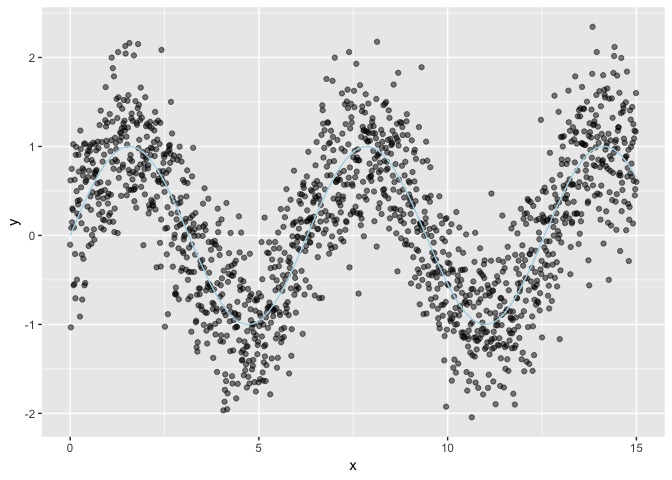
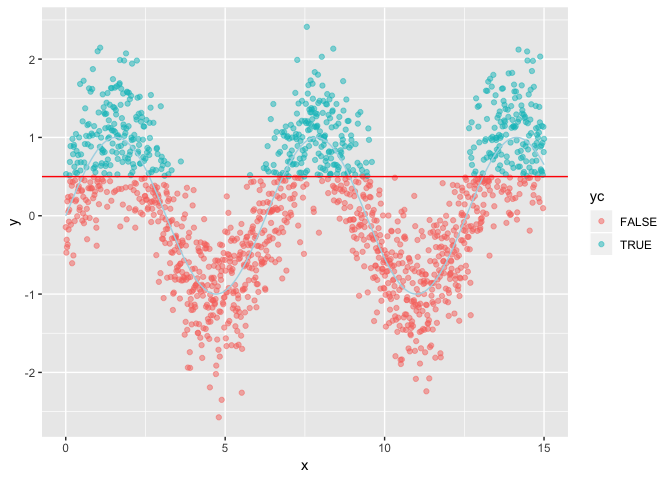
work on two model types

diff --git a/extras/SegFitter.md b/extras/SegFitter.md
@@ -8,52 +8,95 @@ library("ggplot2")
 ``` r
 customCoders = list('c.PiecewiseV.num' = vtreat::solve_piecewise,
                     'n.PiecewiseV.num' = vtreat::solve_piecewise)
+codeRestriction = c("PiecewiseV", "clean", "isBAD", "catB", "catP")
 ```
 
 ``` r
 d <- data.frame(x = seq(0, 15, by = 0.01))
+d$x_cat <- paste0("l_", round(d$x, digits = 1))
 d$y_ideal <- sin(d$x)
 d$x_noise <- d$x[sample.int(nrow(d), nrow(d), replace = FALSE)]
+d$x_cat_noise <- d$x_cat[sample.int(nrow(d), nrow(d), replace = FALSE)]
 d$y <- d$y_ideal + 0.5*rnorm(nrow(d))
+d$yc <- d$y>0.5
 d$is_train <- runif(nrow(d))>=0.2
 
+head(d)
+```
+
+    ##      x x_cat     y_ideal x_noise x_cat_noise          y    yc is_train
+    ## 1 0.00   l_0 0.000000000    1.97       l_0.2 -0.1458958 FALSE    FALSE
+    ## 2 0.01   l_0 0.009999833   11.71       l_5.1  0.5319236  TRUE     TRUE
+    ## 3 0.02   l_0 0.019998667    3.05       l_7.4 -0.4709165 FALSE     TRUE
+    ## 4 0.03   l_0 0.029995500    8.72       l_8.4 -0.3062934 FALSE     TRUE
+    ## 5 0.04   l_0 0.039989334    0.80       l_0.3 -0.4006318 FALSE     TRUE
+    ## 6 0.05   l_0 0.049979169    9.69      l_14.8  0.1850090 FALSE    FALSE
+
+``` r
+summary(d)
+```
+
+    ##        x            x_cat              y_ideal           x_noise     
+    ##  Min.   : 0.00   Length:1501        Min.   :-1.0000   Min.   : 0.00  
+    ##  1st Qu.: 3.75   Class :character   1st Qu.:-0.5917   1st Qu.: 3.75  
+    ##  Median : 7.50   Mode  :character   Median : 0.2412   Median : 7.50  
+    ##  Mean   : 7.50                      Mean   : 0.1174   Mean   : 7.50  
+    ##  3rd Qu.:11.25                      3rd Qu.: 0.8104   3rd Qu.:11.25  
+    ##  Max.   :15.00                      Max.   : 1.0000   Max.   :15.00  
+    ##  x_cat_noise              y               yc           is_train      
+    ##  Length:1501        Min.   :-2.5733   Mode :logical   Mode :logical  
+    ##  Class :character   1st Qu.:-0.5789   FALSE:966       FALSE:287      
+    ##  Mode  :character   Median : 0.1669   TRUE :535       TRUE :1214     
+    ##                     Mean   : 0.1044                                  
+    ##                     3rd Qu.: 0.7858                                  
+    ##                     Max.   : 2.4120
+
+``` r
 ggplot(data=d) +
-  geom_point(aes(x = x, y = y), alpha=0.5) + 
-  geom_line(aes(x = x, y = y_ideal), color = "lightblue")
+  geom_point(aes(x = x, y = y, color = yc), alpha=0.5) + 
+  geom_line(aes(x = x, y = y_ideal), color = "lightblue") +
+  geom_hline(yintercept = 0.5, color = "red")
 ```
 
 ![](SegFitter_files/figure-markdown_github/example-1.png)
 
 ``` r
-cfe <- vtreat::mkCrossFrameNExperiment(d[d$is_train, , drop=FALSE], 
-                                        c('x', 'x_noise'), 'y',
-                                        customCoders = customCoders,
-                                        verbose = FALSE)
-cfe$treatments
+cfn <- vtreat::mkCrossFrameNExperiment(
+  d[d$is_train, , drop=FALSE], 
+  c('x', 'x_noise', 'x_cat', 'x_cat_noise'), 'y',
+  customCoders = customCoders,
+  codeRestriction = codeRestriction,
+  verbose = FALSE)
+
+cfn$treatments
 ```
 
     ##              varName varMoves          rsq           sig needsSplit
-    ## 1       x_PiecewiseV     TRUE 0.6550661901 6.156370e-279       TRUE
-    ## 2            x_clean     TRUE 0.0007680121  3.376642e-01      FALSE
-    ## 3 x_noise_PiecewiseV     TRUE 0.0003799665  5.001037e-01       TRUE
-    ## 4      x_noise_clean     TRUE 0.0029398181  6.053472e-02      FALSE
-    ##   extraModelDegrees origName       code
-    ## 1              1199        x PiecewiseV
-    ## 2                 0        x      clean
-    ## 3              1199  x_noise PiecewiseV
-    ## 4                 0  x_noise      clean
+    ## 1       x_PiecewiseV     TRUE 6.737987e-01 4.149158e-297       TRUE
+    ## 2            x_clean     TRUE 1.382718e-03  1.954138e-01      FALSE
+    ## 3 x_noise_PiecewiseV     TRUE 2.127247e-03  1.082282e-01       TRUE
+    ## 4      x_noise_clean     TRUE 1.321510e-04  6.890538e-01      FALSE
+    ## 5         x_cat_catP     TRUE 3.156838e-03  5.032614e-02       TRUE
+    ## 6   x_cat_noise_catP     TRUE 8.842717e-05  7.434306e-01       TRUE
+    ##   extraModelDegrees    origName       code
+    ## 1              1214           x PiecewiseV
+    ## 2                 0           x      clean
+    ## 3              1214     x_noise PiecewiseV
+    ## 4                 0     x_noise      clean
+    ## 5               150       x_cat       catP
+    ## 6               150 x_cat_noise       catP
 
 ``` r
-prepared <- vtreat::prepare(cfe$treatments, d)
+prepared <- vtreat::prepare(cfn$treatments, d)
 d$x_PiecewiseV <- prepared$x_PiecewiseV
 
 ggplot(data=d) +
- # geom_point(aes(x = x, y = y)) + 
+  # geom_point(aes(x = x, y = y)) + 
   geom_line(aes(x = x, y = y_ideal), color = "lightblue") + 
   geom_line(aes(x = x, y = x_PiecewiseV))
 ```
 
-![](SegFitter_files/figure-markdown_github/example-2.png)
+![](SegFitter_files/figure-markdown_github/solve_numeric-1.png)
 
 ``` r
 WVPlots::ScatterHist(d[d$is_train, , drop=FALSE], 
@@ -63,7 +106,7 @@ WVPlots::ScatterHist(d[d$is_train, , drop=FALSE],
                      estimate_sig = TRUE)
 ```
 
-![](SegFitter_files/figure-markdown_github/example-3.png)
+![](SegFitter_files/figure-markdown_github/solve_numeric-2.png)
 
 ``` r
 WVPlots::ScatterHist(d[d$is_train, , drop=FALSE], 
@@ -73,7 +116,7 @@ WVPlots::ScatterHist(d[d$is_train, , drop=FALSE],
                      estimate_sig = TRUE)
 ```
 
-![](SegFitter_files/figure-markdown_github/example-4.png)
+![](SegFitter_files/figure-markdown_github/solve_numeric-3.png)
 
 ``` r
 WVPlots::ScatterHist(d[!d$is_train, , drop=FALSE], 
@@ -83,7 +126,7 @@ WVPlots::ScatterHist(d[!d$is_train, , drop=FALSE],
                      estimate_sig = TRUE)
 ```
 
-![](SegFitter_files/figure-markdown_github/example-5.png)
+![](SegFitter_files/figure-markdown_github/solve_numeric-4.png)
 
 ``` r
 WVPlots::ScatterHist(d[!d$is_train, , drop=FALSE], 
@@ -93,4 +136,34 @@ WVPlots::ScatterHist(d[!d$is_train, , drop=FALSE],
                      estimate_sig = TRUE)
 ```
 
-![](SegFitter_files/figure-markdown_github/example-6.png)
+![](SegFitter_files/figure-markdown_github/solve_numeric-5.png)
+
+``` r
+cfc <- vtreat::mkCrossFrameCExperiment(
+  d[d$is_train, , drop=FALSE], 
+  c('x', 'x_noise', 'x_cat', 'x_cat_noise'), 'yc', TRUE,
+  customCoders = customCoders,
+  codeRestriction = codeRestriction,
+  verbose = FALSE)
+
+cfc$treatments
+```
+
+    ##              varName varMoves          rsq           sig needsSplit
+    ## 1       x_PiecewiseV     TRUE 3.689978e-01 4.463434e-128       TRUE
+    ## 2            x_clean     TRUE 1.423295e-03  1.348442e-01      FALSE
+    ## 3 x_noise_PiecewiseV     TRUE 1.947111e-03  8.030668e-02       TRUE
+    ## 4      x_noise_clean     TRUE 4.380962e-05  7.930630e-01      FALSE
+    ## 5         x_cat_catP     TRUE 4.223036e-03  1.000562e-02       TRUE
+    ## 6         x_cat_catB     TRUE 2.785072e-01  3.784975e-97       TRUE
+    ## 7   x_cat_noise_catP     TRUE 1.038291e-04  6.863152e-01       TRUE
+    ## 8   x_cat_noise_catB     TRUE 1.499055e-04  6.274870e-01       TRUE
+    ##   extraModelDegrees    origName       code
+    ## 1              1214           x PiecewiseV
+    ## 2                 0           x      clean
+    ## 3              1214     x_noise PiecewiseV
+    ## 4                 0     x_noise      clean
+    ## 5               150       x_cat       catP
+    ## 6               150       x_cat       catB
+    ## 7               150 x_cat_noise       catP
+    ## 8               150 x_cat_noise       catB
